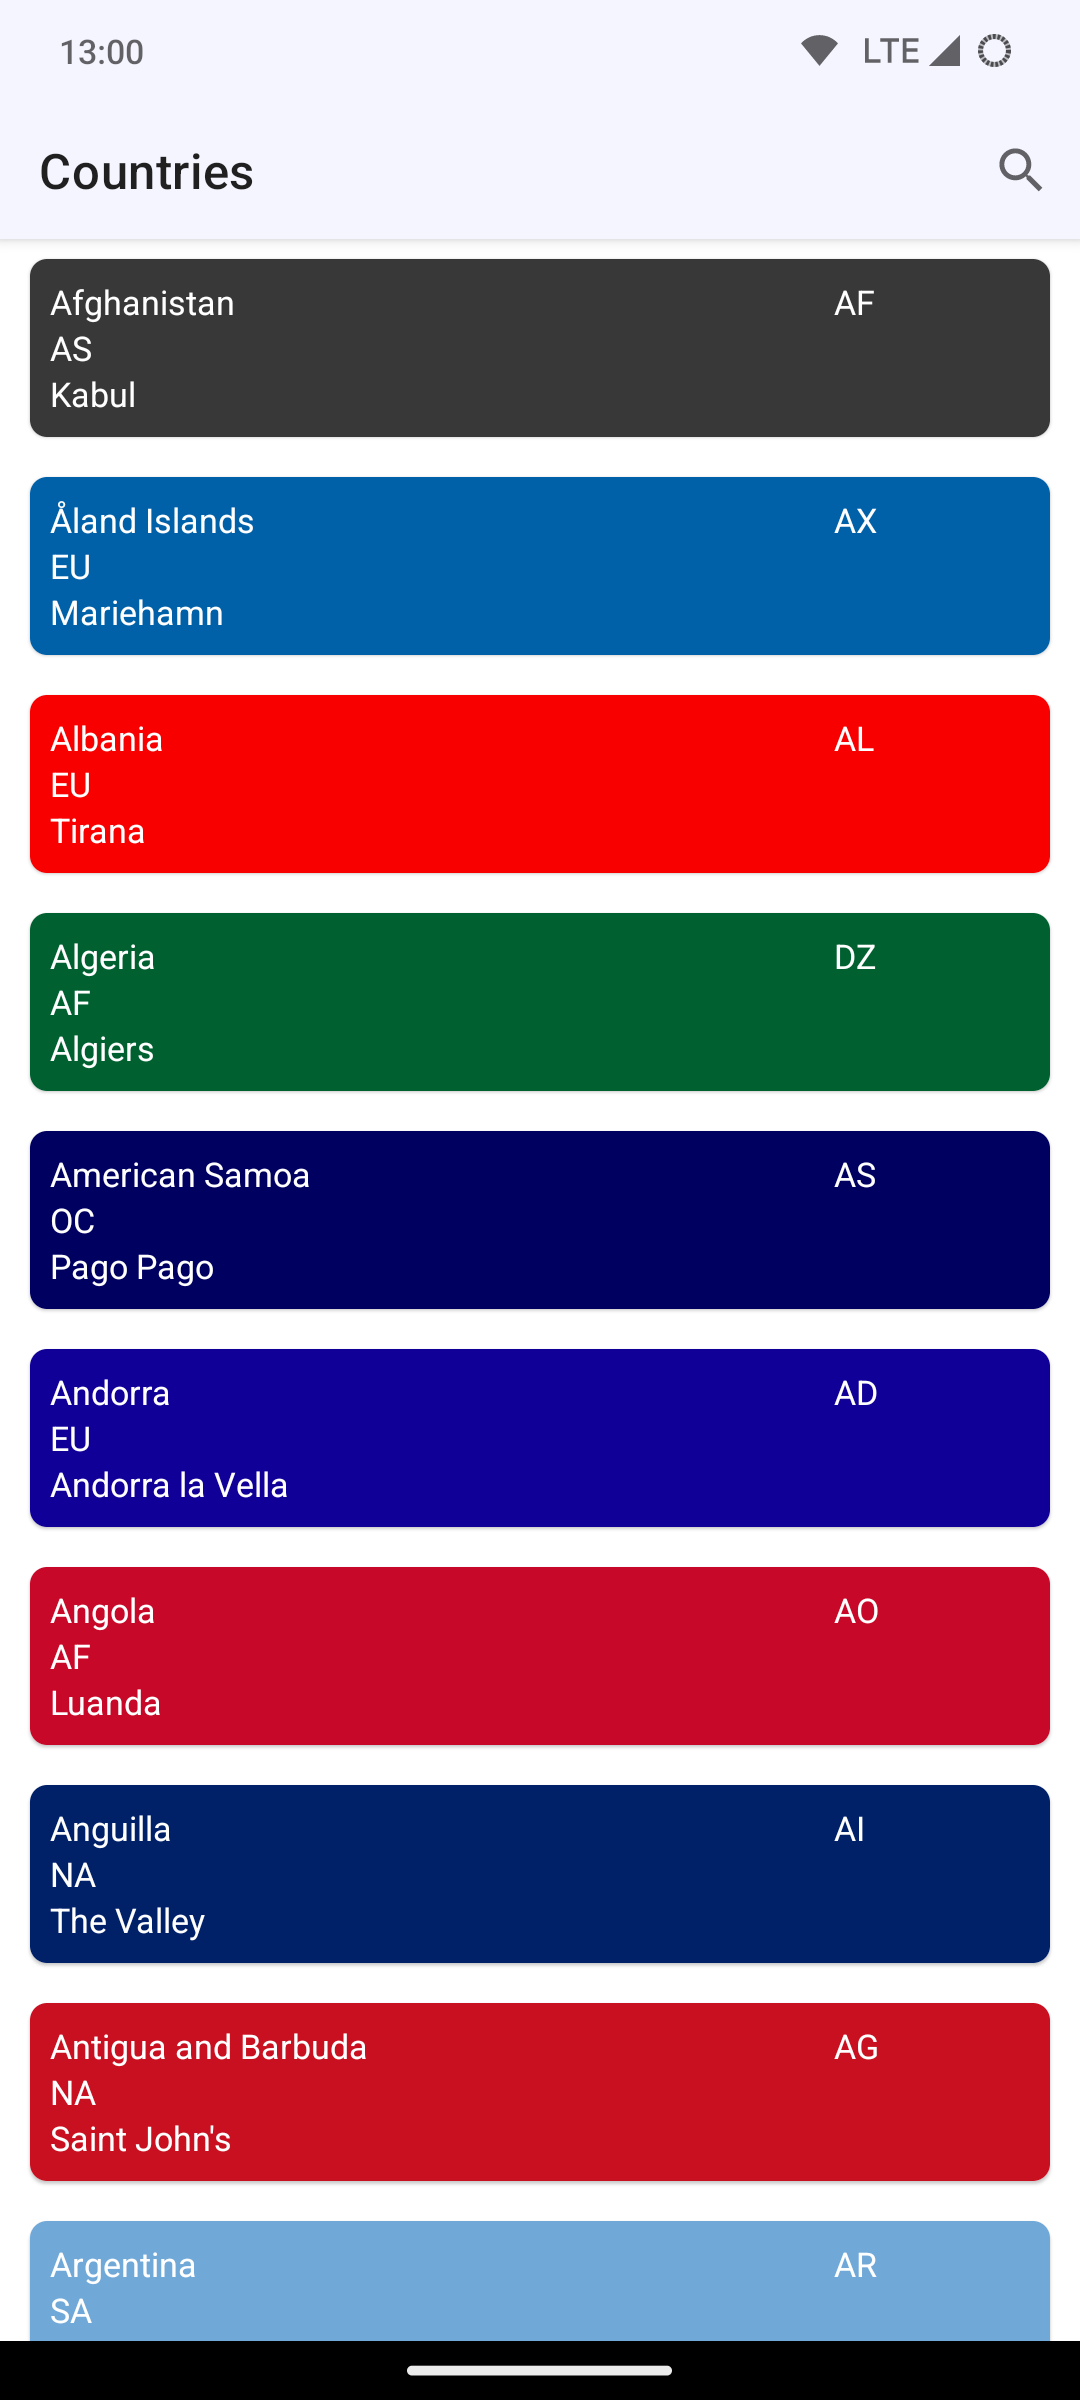
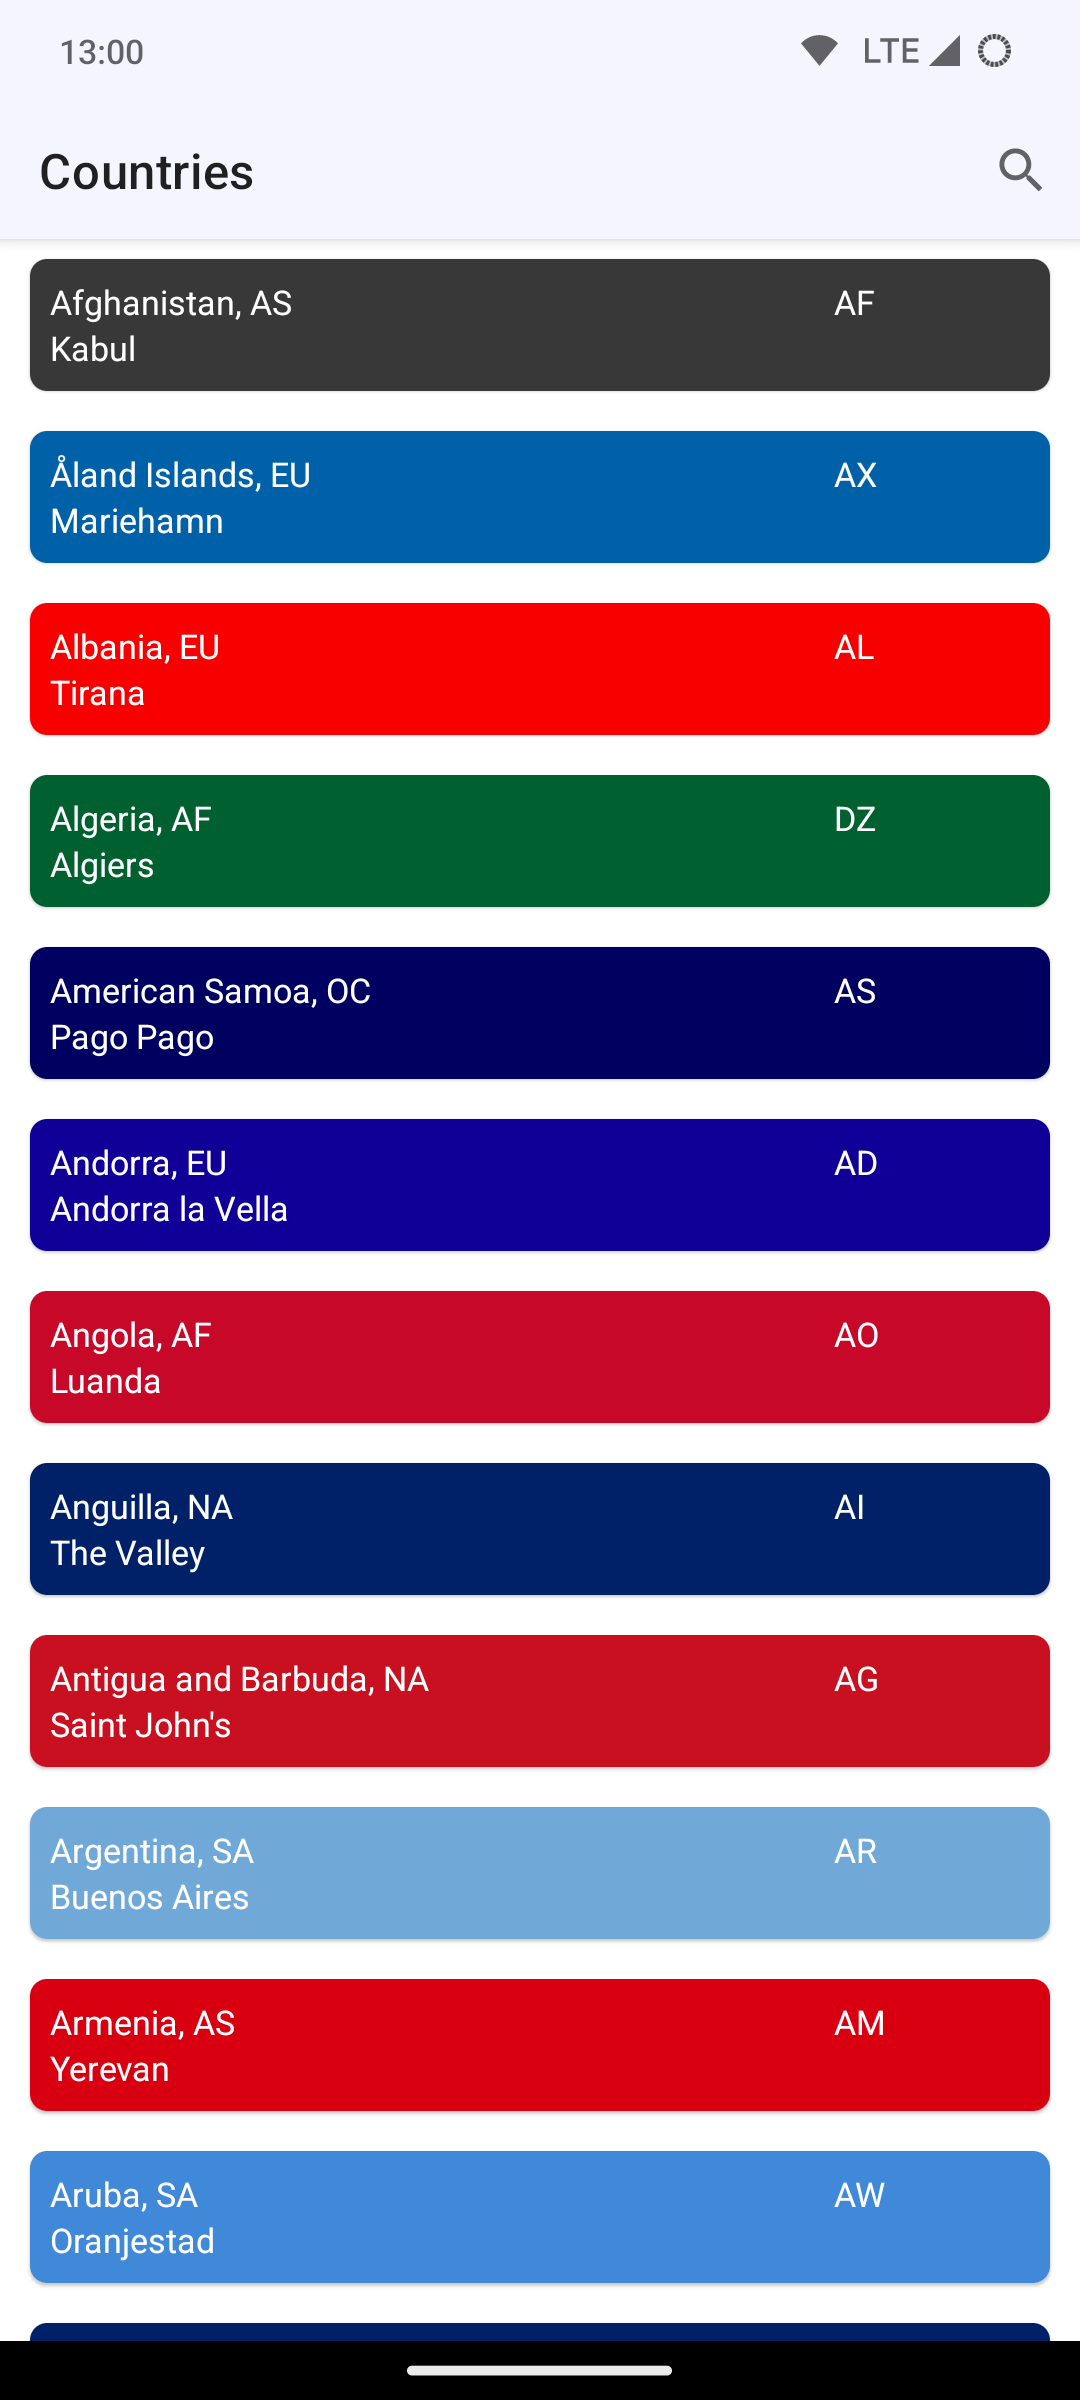
fixes

diff --git a/app/src/main/java/io/drdroid/chandra/ui/pages/home/CountryAdapter.kt b/app/src/main/java/io/drdroid/chandra/ui/pages/home/CountryAdapter.kt
@@ -48,8 +48,8 @@ class CountryAdapter(
 
         holder.capital.text = country.capital
         holder.code.text = country.code
-        holder.region.text = country.region
-        holder.name.text = country.name
+//        holder.region.text = country.region
+        holder.name.text = "${country.name}, ${country.region}"
 
         var domColor:Int = 0
         var color:Int = 0
@@ -74,12 +74,12 @@ class CountryAdapter(
 
                     if (Utils.isDark(domColor)) {
                         holder.name.setTextColor(Color.WHITE)
-                        holder.region.setTextColor(Color.WHITE)
+//                        holder.region.setTextColor(Color.WHITE)
                         holder.capital.setTextColor(Color.WHITE)
                         holder.code.setTextColor(Color.WHITE)
                     } else {
                         holder.name.setTextColor(Color.BLACK)
-                        holder.region.setTextColor(Color.BLACK)
+//                        holder.region.setTextColor(Color.BLACK)
                         holder.capital.setTextColor(Color.BLACK)
                         holder.code.setTextColor(Color.BLACK)
                     }

diff --git a/app/src/main/java/io/drdroid/chandra/ui/pages/home/CountryHolder.kt b/app/src/main/java/io/drdroid/chandra/ui/pages/home/CountryHolder.kt
@@ -9,14 +9,14 @@ import io.drdroid.chandra.R
 class CountryHolder(itemView: View) : RecyclerView.ViewHolder(itemView) {
     var linearlayout: LinearLayout
     var name: TextView
-    var region: TextView
+//    var region: TextView
     var capital: TextView
     var code: TextView
 
     init {
         linearlayout = itemView.findViewById(R.id.linearlayout)
         name = itemView.findViewById(R.id.name)
-        region = itemView.findViewById(R.id.region)
+//        region = itemView.findViewById(R.id.region)
         capital = itemView.findViewById(R.id.capital)
         code = itemView.findViewById(R.id.code)
     }
